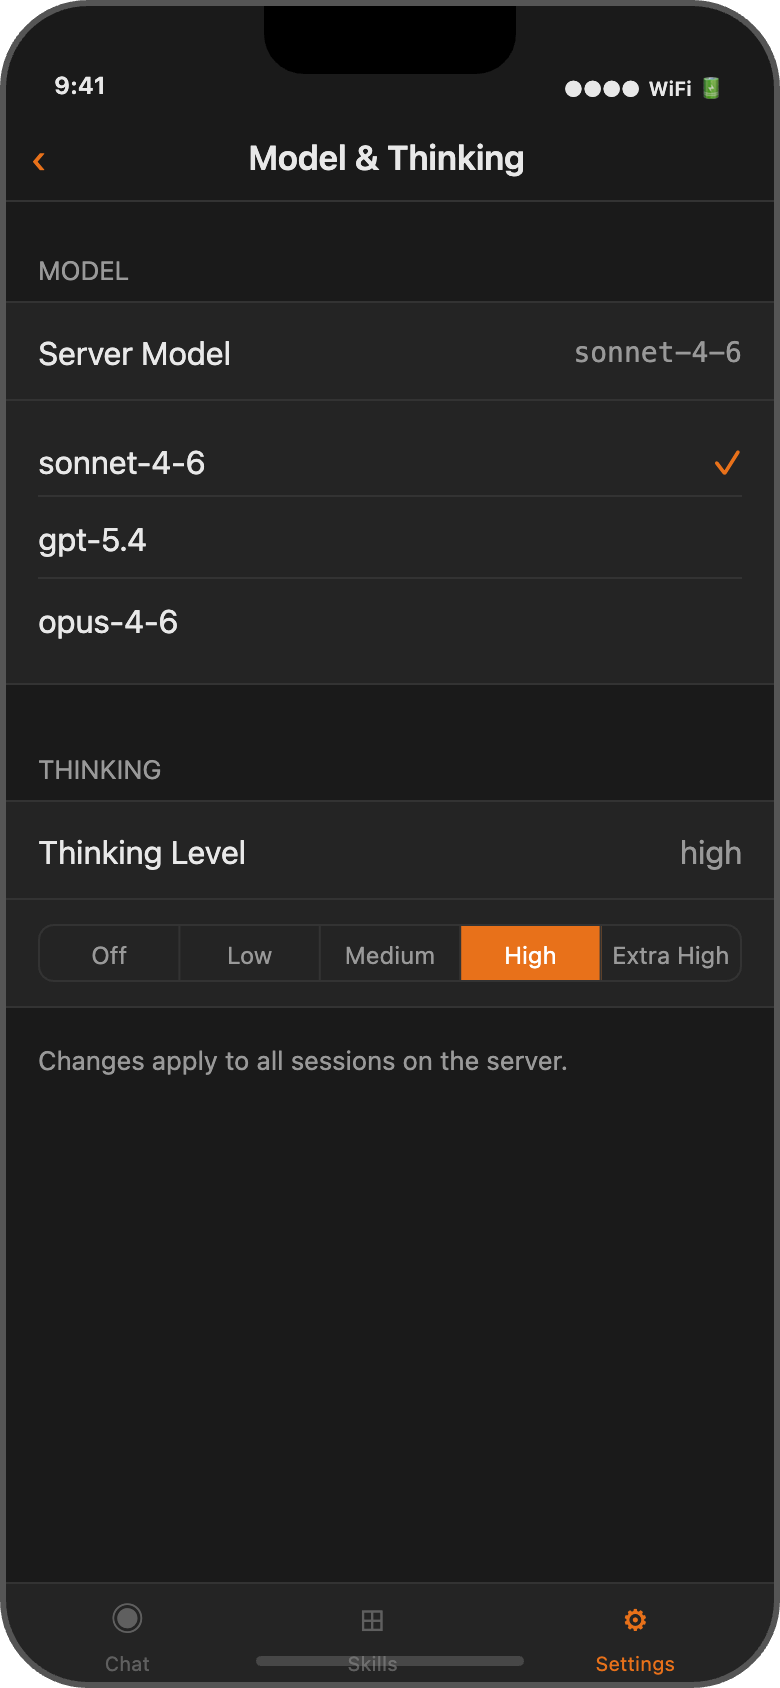
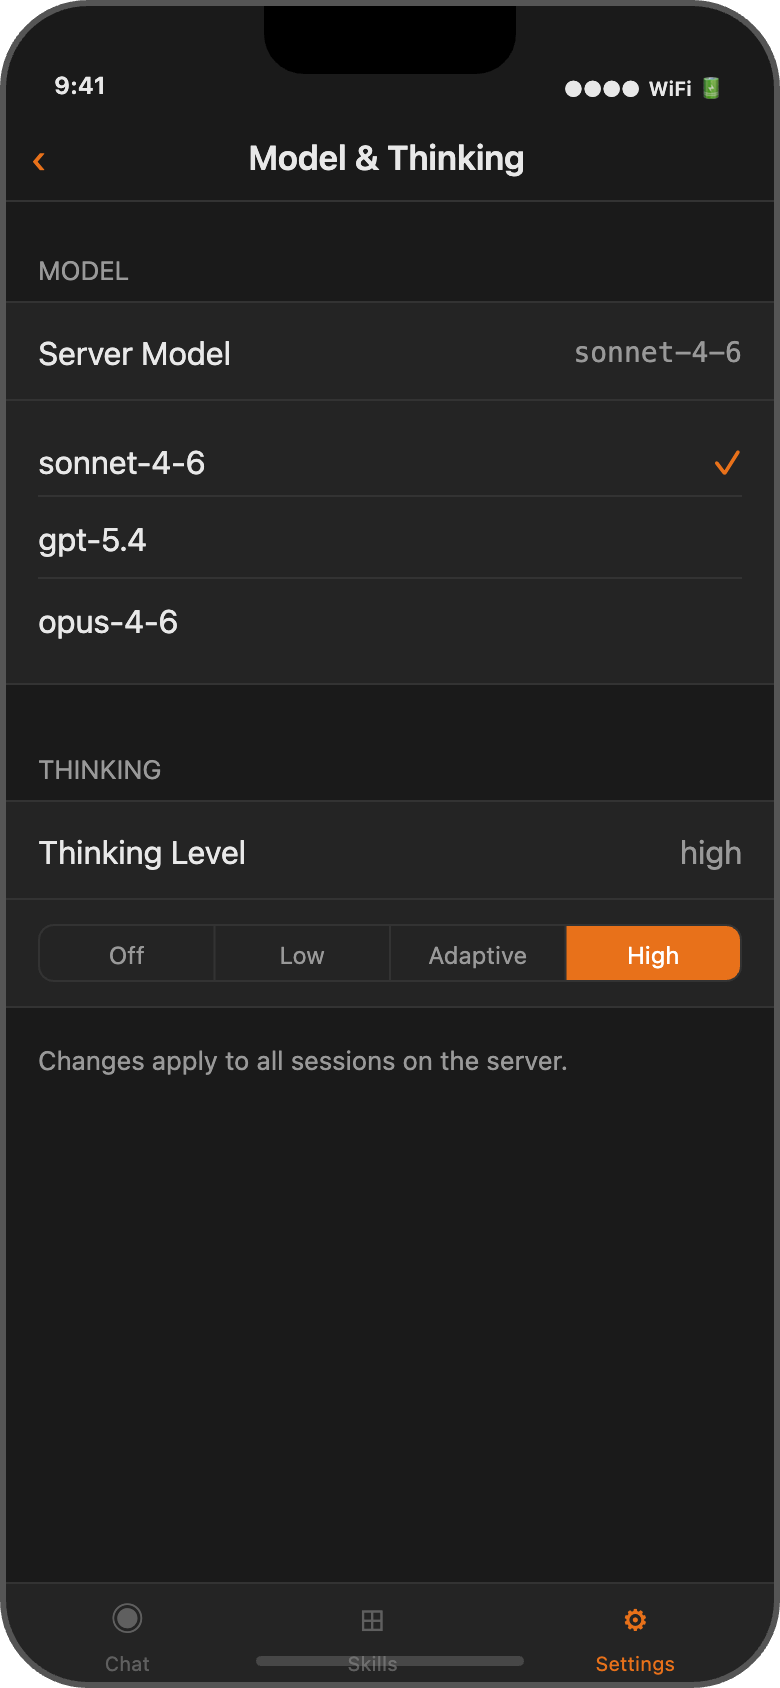
docs(design): fix thinking levels to match ThinkingBudget enum (off|low|adaptive|high)
Corrects Screen 11b segmented control from Off|Low|Medium|High|Extra High
to Off|Low|Adaptive|High (4 values matching the actual ThinkingBudget enum).
Also updates Screen 7 composite and 7b individual dropdowns to match.

Regenerated 6 affected screenshots.

diff --git a/docs/design/fawx-mockups.html b/docs/design/fawx-mockups.html
@@ -1866,9 +1866,8 @@
           <select class="settings-select" disabled>
             <option>off</option>
             <option>low</option>
-            <option>medium</option>
+            <option>adaptive</option>
             <option selected>high</option>
-            <option>extra high</option>
           </select>
         </div>
         <div class="settings-warning">
@@ -2209,9 +2208,8 @@
             <div class="segmented-control" style="border-radius: 8px;">
               <button style="padding: 6px 0; font-size: 12px;">Off</button>
               <button style="padding: 6px 0; font-size: 12px;">Low</button>
-              <button style="padding: 6px 0; font-size: 12px;">Medium</button>
+              <button style="padding: 6px 0; font-size: 12px;">Adaptive</button>
               <button class="active" style="padding: 6px 0; font-size: 12px;">High</button>
-              <button style="padding: 6px 0; font-size: 12px;">Extra High</button>
             </div>
           </div>
         </div>